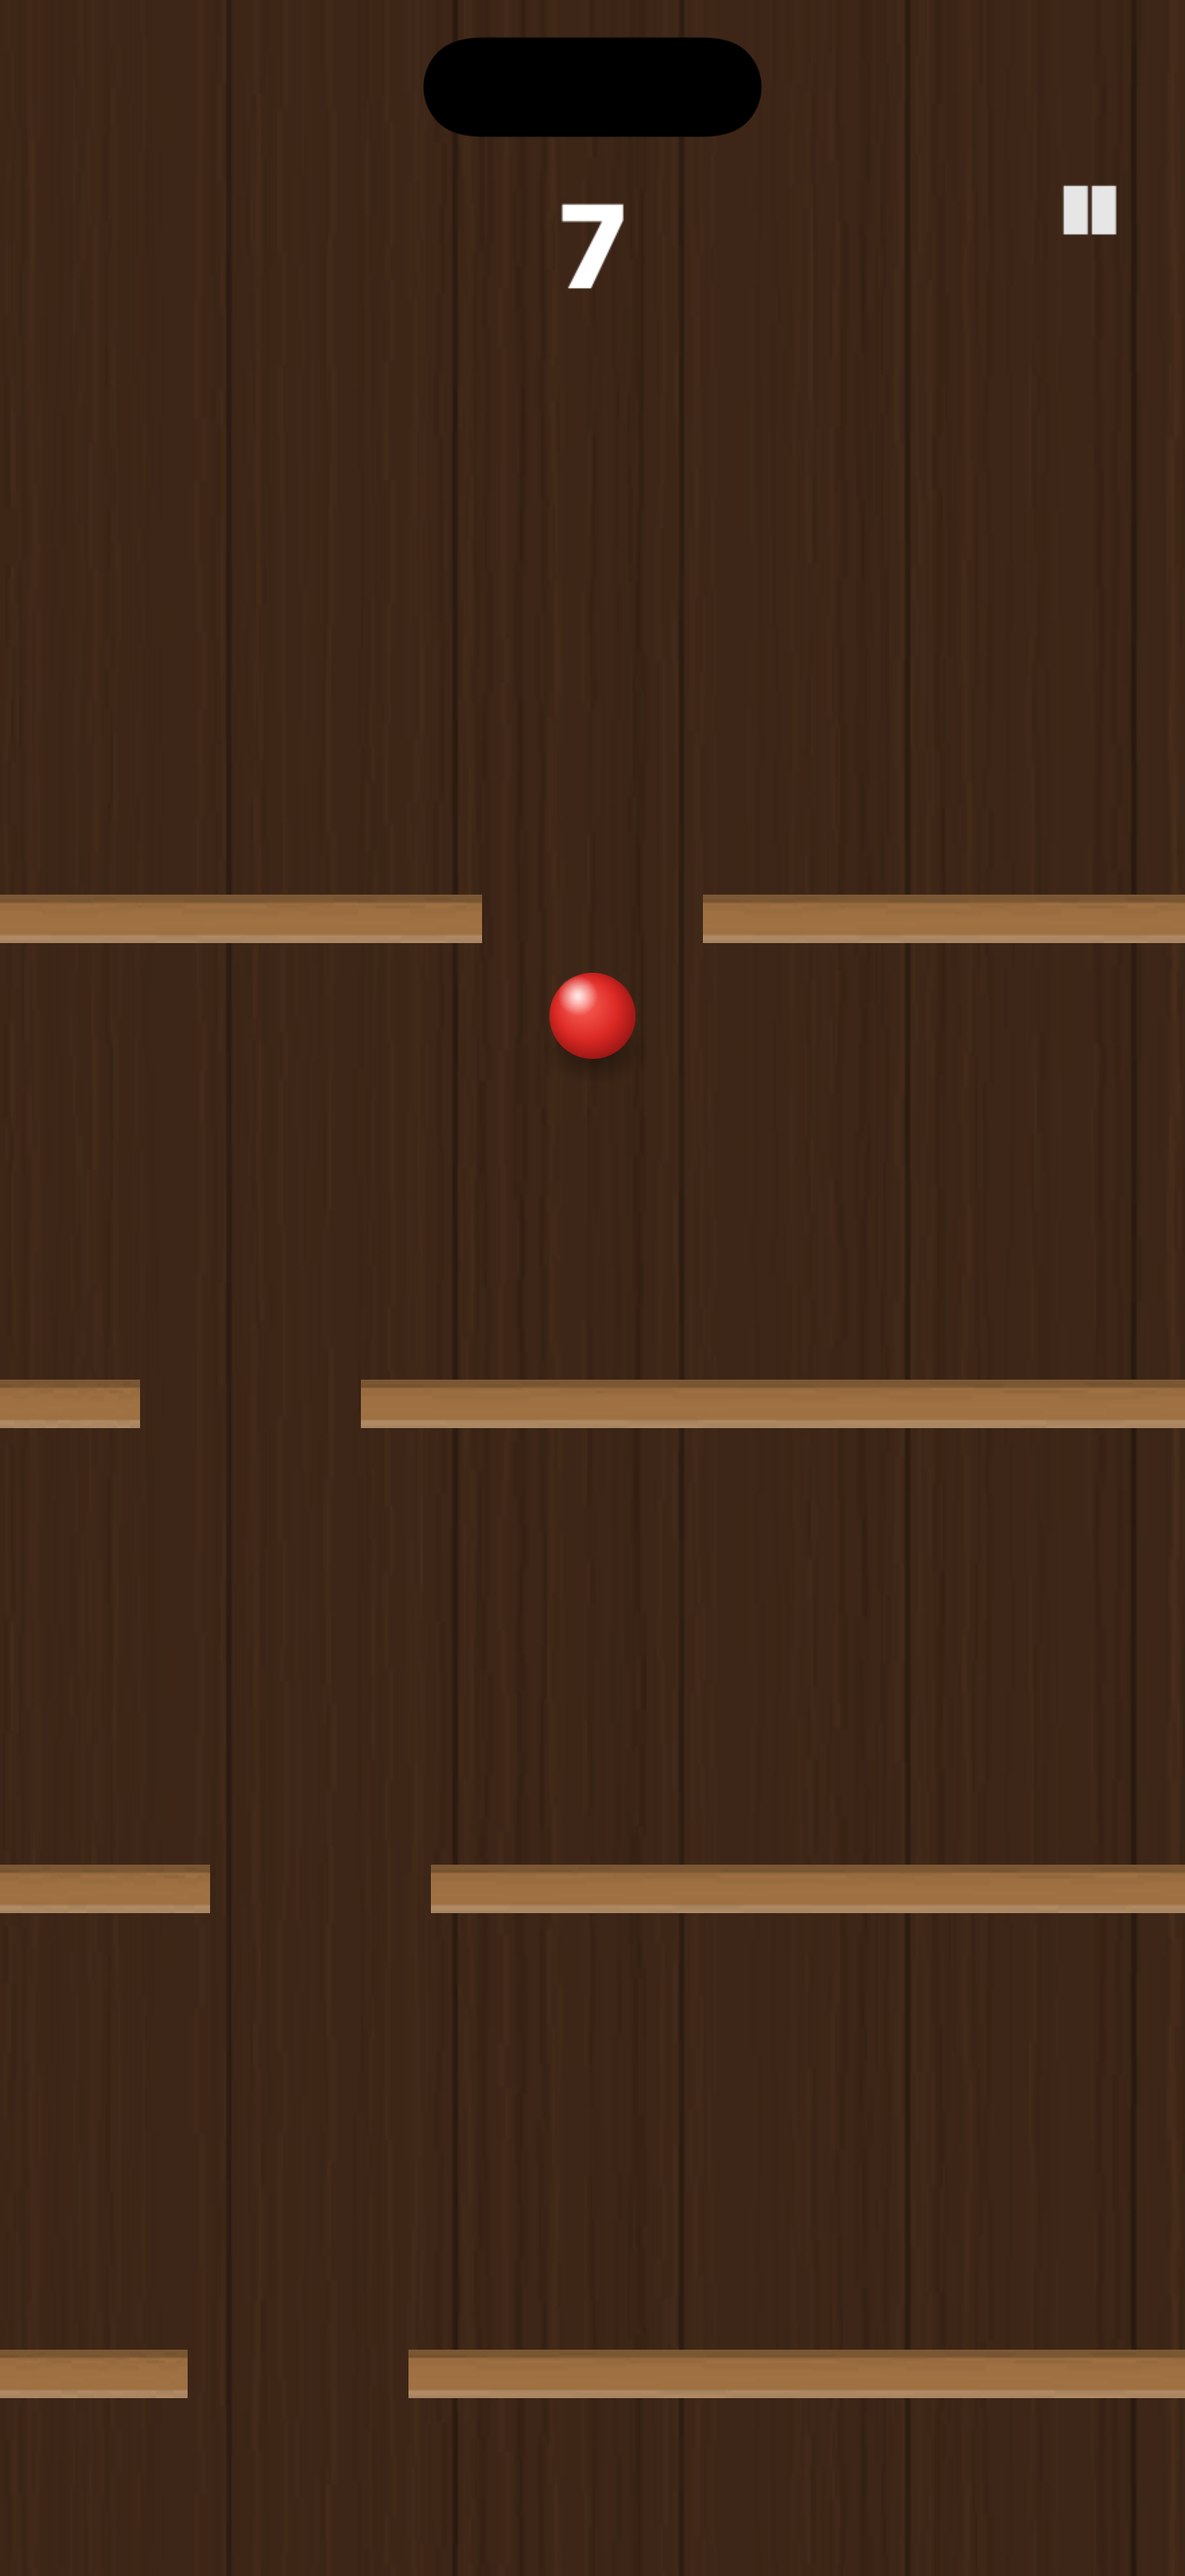
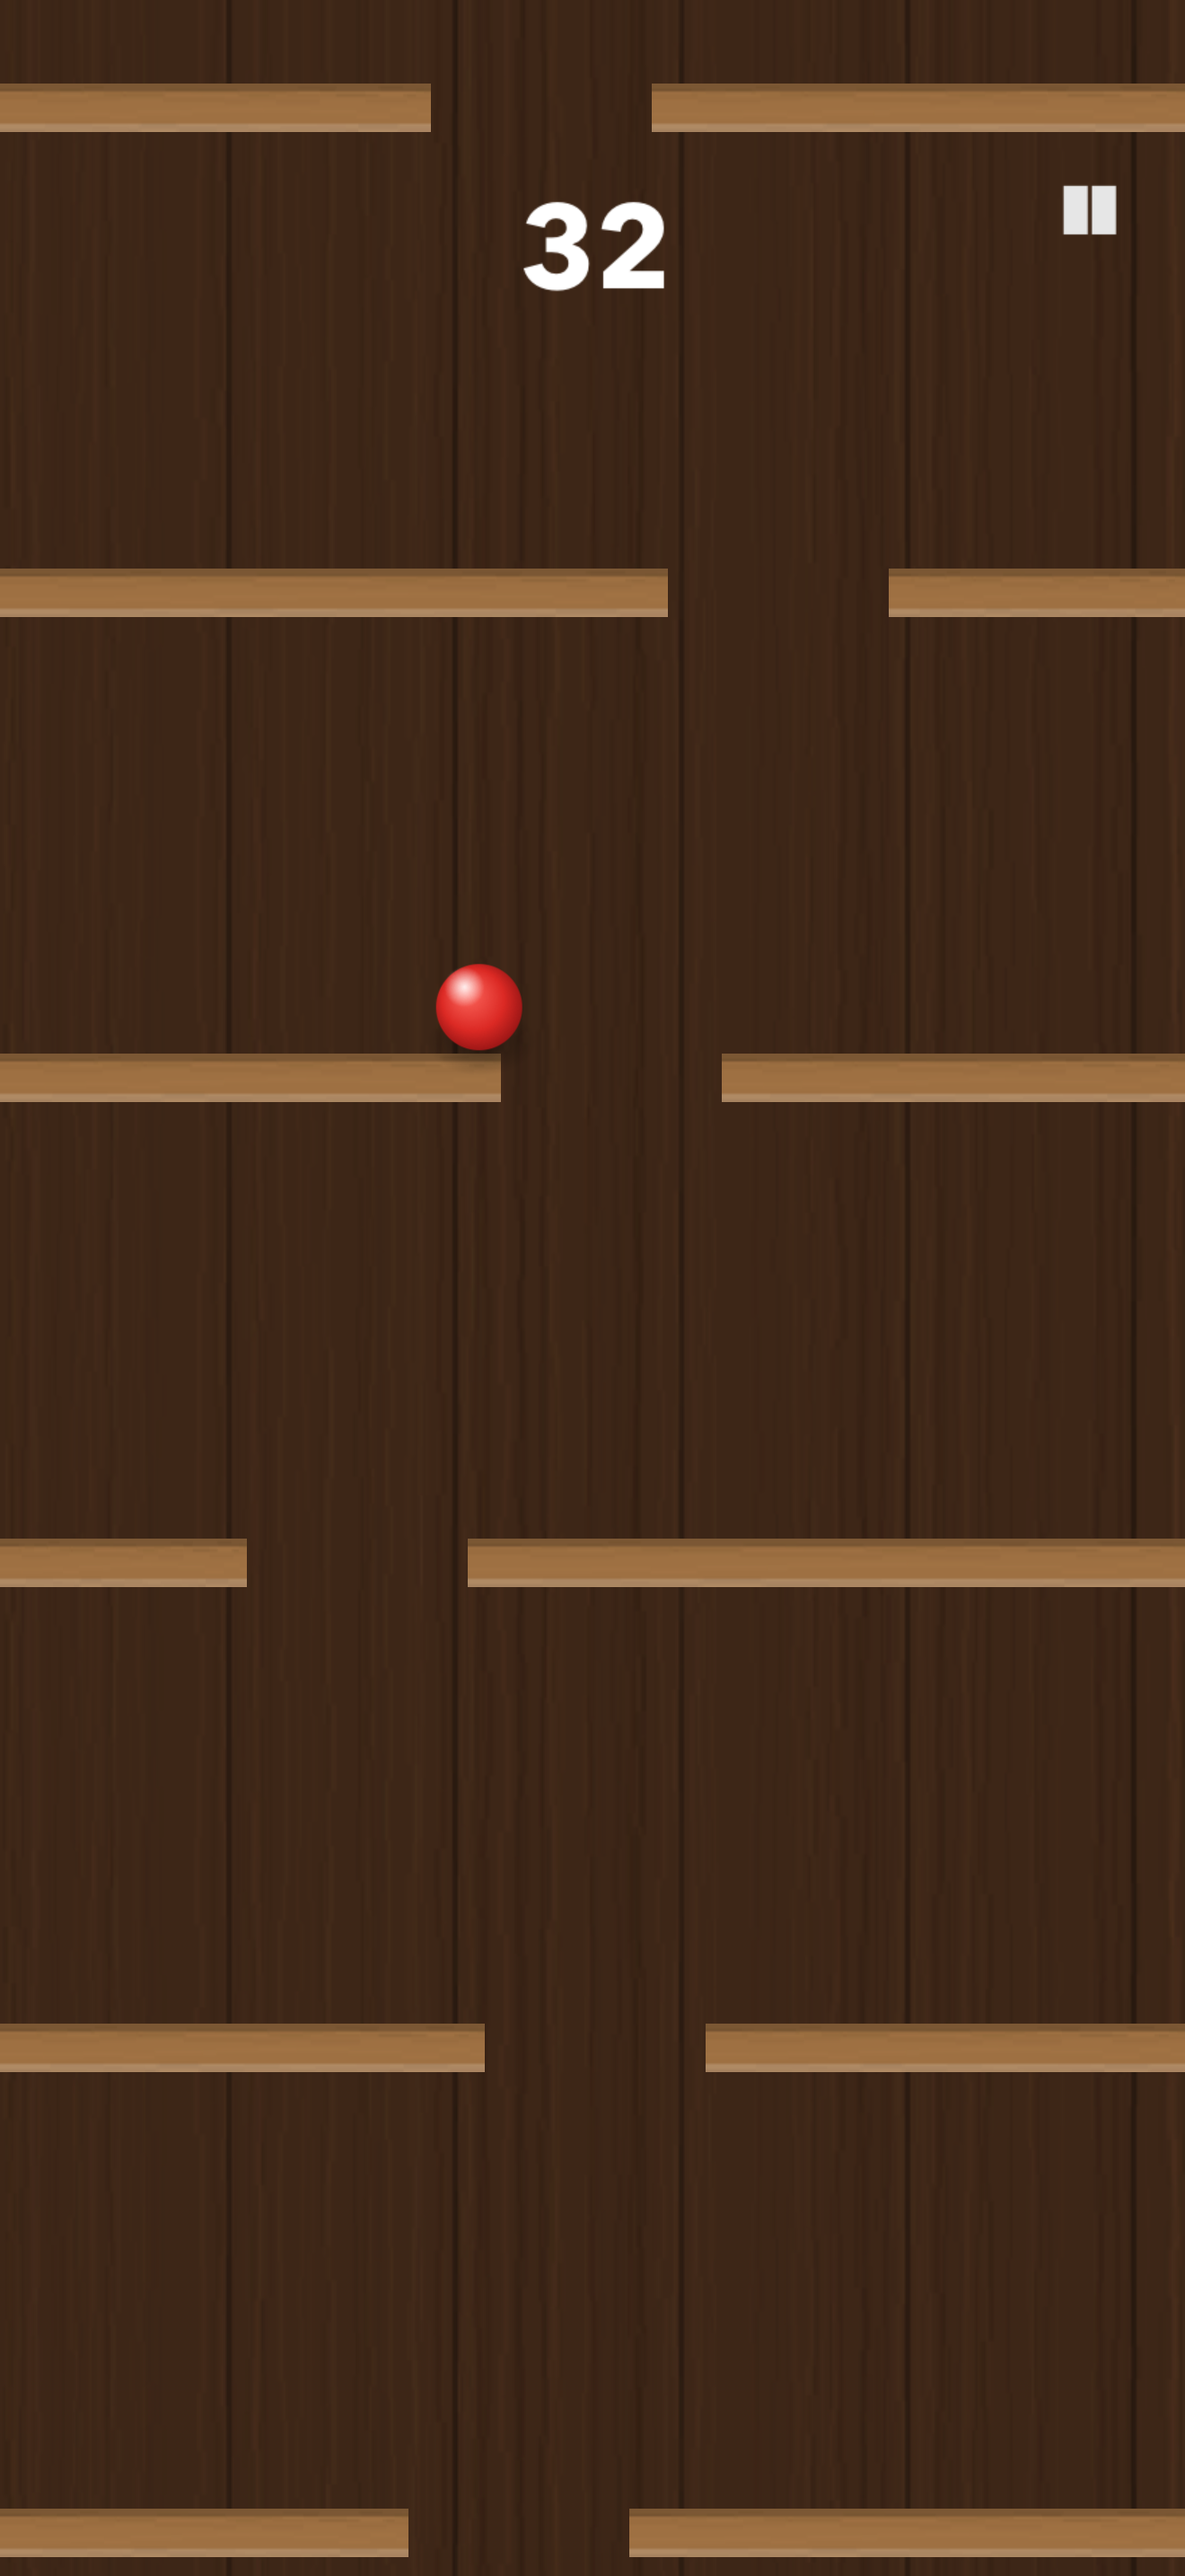
chore: refresh App Store screenshots from the current build
Old shots predated the mode buttons, ZEN pill, and settings copy.
New set captured on the iPhone 17 Pro Max simulator (1320x2868) via a
UI-test screenshot bot (UITests/ScreenshotBot.swift) that plays the
game by reading pixels and steering toward gaps: menu with PLAY/ZEN
pills, real gameplay at score 32, a STREAK x5 readout, the new
settings sheet, and the NEW BEST game-over screen.

The UI test target is simulator tooling only; it is not part of the
app archive.

diff --git a/UITests/ScreenshotBot.swift b/UITests/ScreenshotBot.swift
@@ -1,0 +1,163 @@
+import XCTest
+
+/// Screenshot driver, not a real test suite. Plays the game with a tiny
+/// pixel-reading bot and dumps device-resolution frames to /tmp/drop-shots
+/// (simulator processes share the Mac filesystem). Frames are picked over
+/// manually for the App Store listing afterwards.
+final class ScreenshotBot: XCTestCase {
+
+    let outDir = "/tmp/drop-shots"
+
+    override func setUpWithError() throws {
+        continueAfterFailure = false
+        try? FileManager.default.createDirectory(
+            atPath: outDir, withIntermediateDirectories: true)
+    }
+
+    // MARK: - Frame analysis
+
+    struct Frame {
+        let width: Int
+        let height: Int
+        let pixels: [UInt8]   // RGBA8888
+
+        func rgb(_ x: Int, _ y: Int) -> (r: Int, g: Int, b: Int) {
+            let i = (y * width + x) * 4
+            return (Int(pixels[i]), Int(pixels[i + 1]), Int(pixels[i + 2]))
+        }
+
+        /// The glossy ball reads as saturated red: strong R, weak G/B.
+        func isBall(_ x: Int, _ y: Int) -> Bool {
+            let p = rgb(x, y)
+            return p.r > 150 && p.g < 90 && p.b < 90
+        }
+
+        /// Planks are light tan; background is dark brown. Brightness splits them.
+        func isPlank(_ x: Int, _ y: Int) -> Bool {
+            let p = rgb(x, y)
+            return p.r > 130 && p.g > 90 && p.b > 55 && !isBall(x, y)
+        }
+    }
+
+    func grab(_ app: XCUIApplication) -> Frame? {
+        let shot = XCUIScreen.main.screenshot()
+        guard let cg = shot.image.cgImage else { return nil }
+        let w = cg.width, h = cg.height
+        var data = [UInt8](repeating: 0, count: w * h * 4)
+        let space = CGColorSpaceCreateDeviceRGB()
+        guard let ctx = CGContext(data: &data, width: w, height: h,
+                                  bitsPerComponent: 8, bytesPerRow: w * 4,
+                                  space: space,
+                                  bitmapInfo: CGImageAlphaInfo.premultipliedLast.rawValue)
+        else { return nil }
+        ctx.draw(cg, in: CGRect(x: 0, y: 0, width: w, height: h))
+        return Frame(width: w, height: h, pixels: data)
+    }
+
+    func save(_ name: String) {
+        let png = XCUIScreen.main.screenshot().pngRepresentation
+        try? png.write(to: URL(fileURLWithPath: "\(outDir)/\(name).png"))
+    }
+
+    /// Ball centroid, scanning a subsampled grid. Returns pixel coordinates.
+    func findBall(_ f: Frame) -> (x: Int, y: Int)? {
+        var sx = 0, sy = 0, n = 0
+        stride(from: 0, to: f.height, by: 6).forEach { y in
+            stride(from: 0, to: f.width, by: 6).forEach { x in
+                if f.isBall(x, y) { sx += x; sy += y; n += 1 }
+            }
+        }
+        return n >= 4 ? (sx / n, sy / n) : nil
+    }
+
+    /// Center X of the gap in the first floor row below `belowY`, or nil.
+    func findGap(_ f: Frame, belowY: Int) -> Int? {
+        var y = belowY + 30
+        while y < f.height - 10 {
+            // A floor row has plank pixels; find one.
+            var plankCount = 0
+            stride(from: 0, to: f.width, by: 8).forEach { x in
+                if f.isPlank(x, y) { plankCount += 1 }
+            }
+            if plankCount > 20 {
+                // Scan this row for the widest run of non-plank (the gap).
+                var bestStart = -1, bestLen = 0, runStart = -1, x = 0
+                while x < f.width {
+                    let plank = f.isPlank(x, y)
+                    if !plank && runStart < 0 { runStart = x }
+                    if (plank || x == f.width - 1), runStart >= 0 {
+                        let len = x - runStart
+                        if len > bestLen { bestLen = len; bestStart = runStart }
+                        runStart = -1
+                    }
+                    x += 4
+                }
+                // The gap is ~82pt wide (~250px). Edge-of-screen runs from the
+                // wall side also match; require a plausible width.
+                if bestLen > 120 && bestLen < 700 {
+                    return bestStart + bestLen / 2
+                }
+                y += 60   // past this floor, keep looking (row may be occluded)
+            }
+            y += 8
+        }
+        return nil
+    }
+
+    // MARK: - The bot
+
+    func testCaptureScreenshots() throws {
+        let app = XCUIApplication()
+        app.launch()
+        sleep(2)
+
+        // 1. Menu.
+        save("01-menu")
+
+        // 2. Start a ranked run: tap the PLAY pill (center, 8pt above middle).
+        let play = app.coordinate(withNormalizedOffset: CGVector(dx: 0.5, dy: 0.49))
+        play.tap()
+        sleep(1)
+
+        // 3. Play with the pixel bot, dumping frames as we go. Steering: hold
+        //    a finger on the half of the screen toward the gap for a beat.
+        let deadline = Date().addingTimeInterval(75)
+        var frameIdx = 0
+        while Date() < deadline {
+            guard let f = grab(app) else { break }
+            guard let ball = findBall(f) else {
+                // No ball found: likely game over (flash/overlay). Stop.
+                break
+            }
+            save(String(format: "frame-%03d", frameIdx))
+            frameIdx += 1
+
+            if let gapX = findGap(f, belowY: ball.y) {
+                let dx = gapX - ball.x
+                if abs(dx) > 40 {
+                    let sideX: CGFloat = dx < 0 ? 0.15 : 0.85
+                    // Short press so we re-evaluate frequently; sensitivity is
+                    // high by default and long holds slam the ball into walls.
+                    app.coordinate(withNormalizedOffset: CGVector(dx: sideX, dy: 0.75))
+                        .press(forDuration: 0.12)
+                }
+            }
+            usleep(120_000)
+        }
+
+        // 4. Whatever screen we're on now (often game over) is worth keeping.
+        sleep(1)
+        save("99-final")
+    }
+
+    /// Separate capture for the settings sheet, reachable from the menu gear.
+    func testCaptureSettings() throws {
+        let app = XCUIApplication()
+        app.launch()
+        sleep(2)
+        // Gear sits top-right (36pt from the right edge, below the safe area).
+        app.coordinate(withNormalizedOffset: CGVector(dx: 0.92, dy: 0.078)).tap()
+        sleep(2)
+        save("04-settings")
+    }
+}

diff --git a/AppStore/APP_STORE_SUBMISSION.md b/AppStore/APP_STORE_SUBMISSION.md
@@ -70,12 +70,13 @@ The accelerometer is used only to steer and never leaves the device, so it is no
 
 ## Screenshots
 
-Required for the 6.9"/6.7" iPhone display; App Store Connect scales down for smaller devices. Four ready-made shots (1320×2868, portrait) are in `AppStore/screenshots/`:
+Required for the 6.9"/6.7" iPhone display; App Store Connect scales down for smaller devices. Five ready-made shots (1320x2868, portrait, captured on the iPhone 17 Pro Max simulator) are in `AppStore/screenshots/`:
 
-1. `01-menu.png` — title screen
-2. `02-gameplay.png` — ball mid-drop, score 7
-3. `03-streak.png` — score 14 with the streak-bonus readout
-4. `04-settings.png` — controls and feedback toggles
+1. `01-menu.png` - title screen with the PLAY and ZEN buttons
+2. `02-gameplay.png` - ball mid-drop, score 32
+3. `03-streak.png` - score 19 with the STREAK x5 +3 readout
+4. `04-settings.png` - controls and feedback toggles
+5. `05-newbest.png` - game over screen with the NEW BEST callout (optional fifth slot)
 
 Upload them under the 6.9" display tab. No marketing frames — what's on screen is what players get.
 
